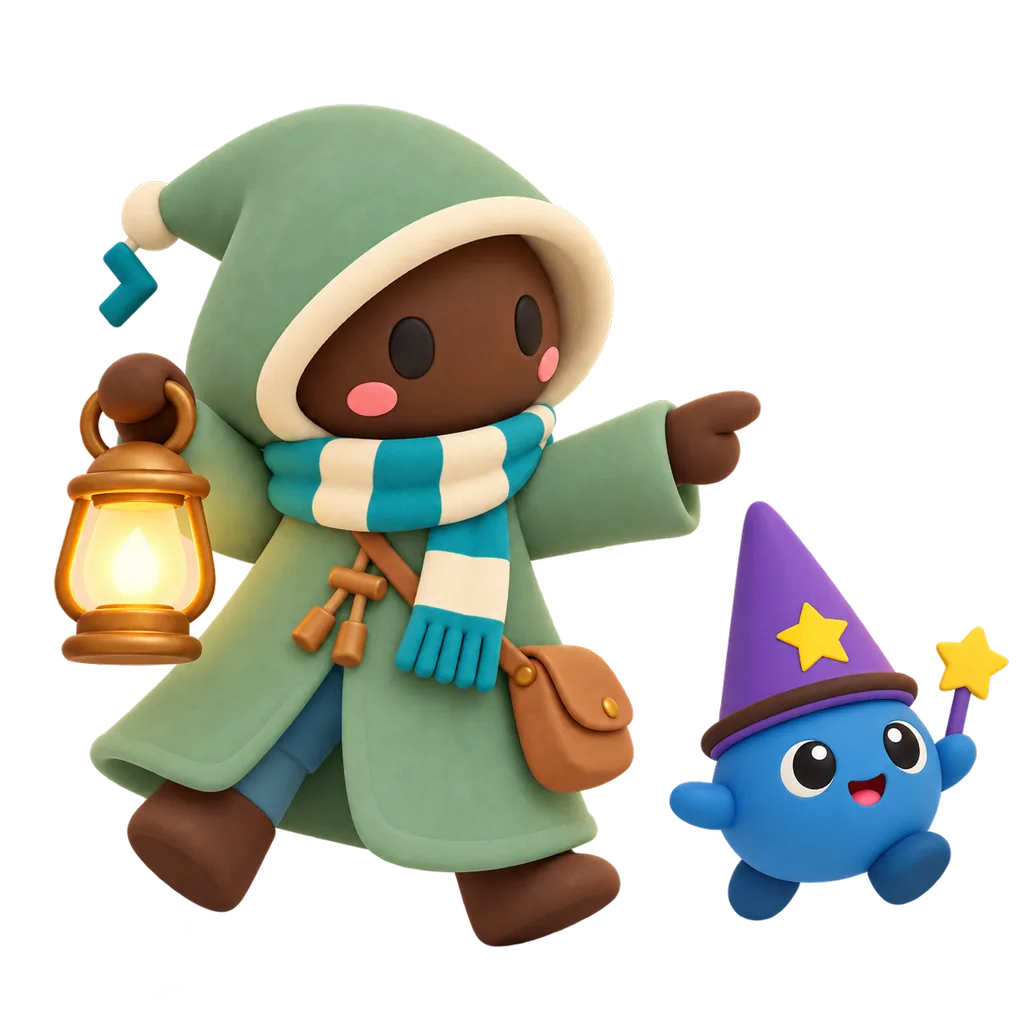
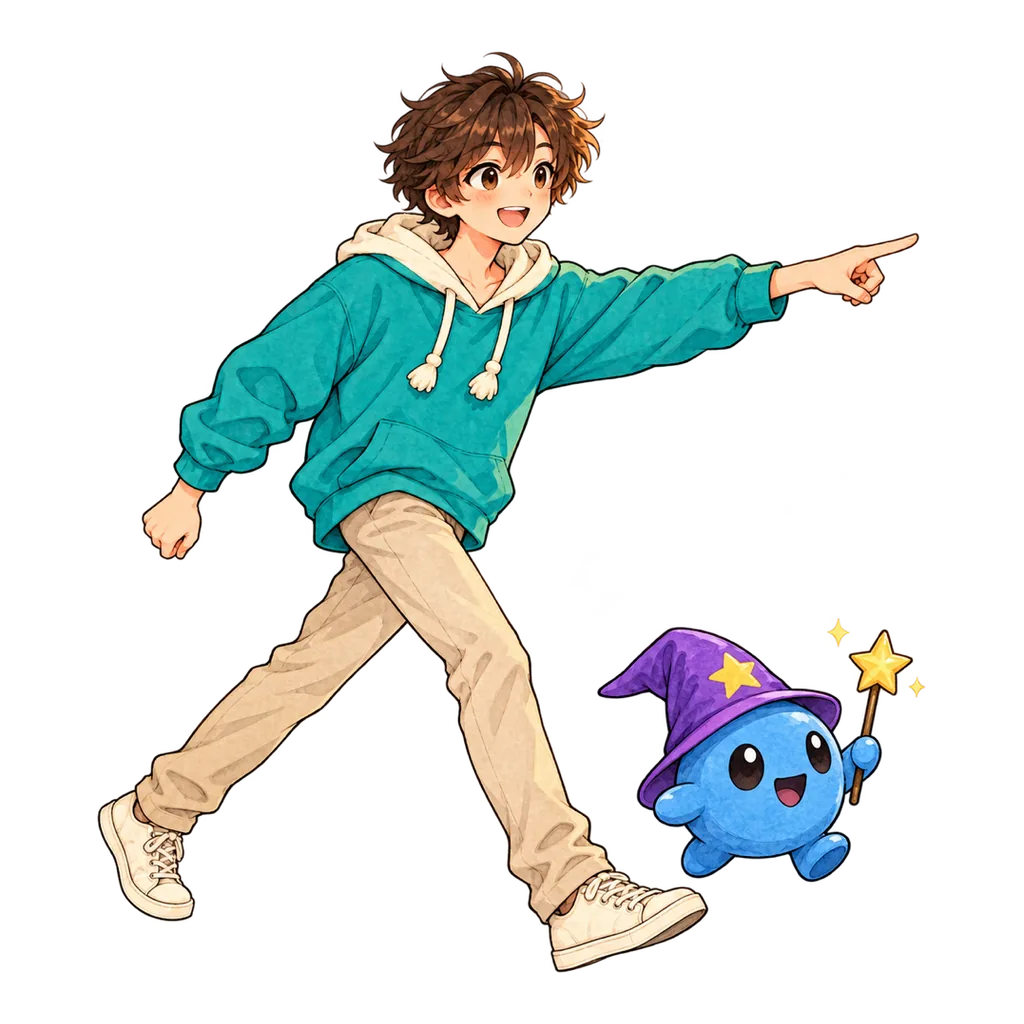
🎨 style(web): switch brand illustrations to ink & watercolor

diff --git a/apps/web/src/components/layout/site-footer.tsx b/apps/web/src/components/layout/site-footer.tsx
@@ -54,9 +54,9 @@ export function SiteFooter() {
           <div className="min-w-0">
             <SiteBrand variant="footer" brand={brand} />
             <p className="mt-3 max-w-[300px] text-sm text-muted-foreground">
-              <Trans id="siteFooter.brand.lantern">
-                Field-tested coding skills I use every day. Carried around like
-                a lantern.
+              <Trans id="siteFooter.brand.blurb">
+                Handy coding practices grown from real work, kept right within
+                reach.
               </Trans>
             </p>
           </div>

diff --git a/apps/web/src/app/[lang]/page.tsx b/apps/web/src/app/[lang]/page.tsx
@@ -149,7 +149,7 @@ export default async function HomePage({ params }: HomePageProps) {
                 alt={i18n._({
                   id: "home.hero.art.alt",
                   message:
-                    "Nika in a green hooded coat holding a lantern, walking with Kiki in a wizard hat",
+                    "Nika in a teal hoodie waving while walking, alongside blue little Kiki in a purple wizard hat jumping with a star wand",
                 })}
                 width={1536}
                 height={1024}

diff --git a/apps/web/src/styles/custom.css b/apps/web/src/styles/custom.css
@@ -419,7 +419,7 @@
     background: var(--plate);
   }
 
-  /* Inset so hat tips and lanterns near the square's corners stay inside the circle. */
+  /* Inset so wizard-hat tips, wands and props near the square's corners stay inside the circle. */
   .art-avatar > img {
     width: 100%;
     height: 100%;

diff --git a/apps/web/src/styles/brand-tokens.css b/apps/web/src/styles/brand-tokens.css
@@ -1,5 +1,5 @@
 /*
- * GENERATED by scripts/sync-brand-tokens.mjs from adonis-brand@1e9972cb84cd.
+ * GENERATED by scripts/sync-brand-tokens.mjs from adonis-brand@b61abfa3ef97.
  * Do not edit by hand: change adonis-brand, then run `pnpm brand:sync`.
  */
 :root {

diff --git a/apps/web/src/styles/theme-roles.css b/apps/web/src/styles/theme-roles.css
@@ -1,5 +1,5 @@
 /*
- * GENERATED by scripts/sync-brand-tokens.mjs from adonis-brand@1e9972cb84cd.
+ * GENERATED by scripts/sync-brand-tokens.mjs from adonis-brand@b61abfa3ef97.
  * Do not edit by hand: change adonis-brand, then run `pnpm brand:sync`.
  */
 

diff --git a/DESIGN.md b/DESIGN.md
@@ -1,9 +1,9 @@
 ---
-# GENERATED by scripts/sync-brand-tokens.mjs from adonis-brand@1e9972cb84cd (projects/skills/DESIGN.md).
+# GENERATED by scripts/sync-brand-tokens.mjs from adonis-brand@b61abfa3ef97 (projects/skills/DESIGN.md).
 # Do not edit by hand: change adonis-brand, then run `pnpm brand:sync`.
 version: alpha
 name: Nika Skills
-description: Catalog site for Nika's agent skills. Near-white cool gray pages, one saturated leaf-green accent used on small areas, and the clay characters Nika and Kiki carrying the brand through every section.
+description: Catalog site for Nika's agent skills. Near-white cool gray pages, one saturated leaf-green accent used on small areas, and the ink & watercolor characters Nika and Kiki carrying the brand through every section.
 # colors: injected by adonis-skills `pnpm brand:sync` from design-system/tokens.json (theme picked by
 #   projects/skills/theme.json designSystem.accent). Light roles keep their name; dark roles get a
 #   `-dark` suffix. Never write hex here.
@@ -288,7 +288,7 @@ components:
 
 ## Overview
 
-一本摊开的、干净的技能手册：页面几乎无彩，是近白的冷灰；唯一的强调色是叶绿，只出现在小面积；暖色和高饱和交给黏土角色尼卡（Nika）和琪琪（Kiki），他们从首屏一直陪到页脚。
+一本摊开的、干净的技能手册：页面几乎无彩，是近白的冷灰；唯一的强调色是叶绿，只出现在小面积；暖色和高饱和交给钢笔淡彩角色尼卡（Nika）和琪琪（Kiki），他们从首屏一直陪到页脚。
 
 - 界面安静，角色热闹。插画是页面里唯一大面积的暖色区域。
 - 叶绿只做“点亮”：主按钮、标签、选中态、链接、悬停边框、焦点环。
@@ -381,10 +381,11 @@ components:
 
 ## Illustration
 
-- 黏土质感，光源是尼卡手里的灯（暖黄，从左上照）。
+- 钢笔淡彩（2026-10-31 起）：深棕墨线、水彩晕染、一点彩铅，青绿 `#2BA5A0` 是画面里最饱和的颜色。尼卡约 1:6 头身，穿青绿连帽衫、兜帽放下；不画灯笼、帽子、皮包和帽尖挂件，没有发光光源。琪琪保持蓝色身体、紫色巫师帽和星星魔杖，画法换成水彩。
+- 一张图最多一件情境道具，要说明这张图在讲什么；琪琪的魔杖是身份道具，不算。点缀（小星星、叶芽）合计不超过 4 个。
 - 所有插画用透明背景，同一张图在浅深两种模式都能用；衬底由界面提供，不画进图里。
 - 用到插画的位置：hero、3 张精选卡、场景分组头、空状态、页脚。普通卡不配插画。
-- 出图必须附参考图（`projects/skills/hero/` 与主角设定图），角色颜色、比例不能漂移；图里不出现文字。
+- 出图必须附参考图（`personal/character/anime/hero-ink.png`、`sheet-ink.png`，有琪琪时加 `personal/character/crew/crew-sheet-ink.png`），提示词照 `personal/BRAND.md` 第 6 节母版（PRESERVE / CHANGE ONLY / AVOID）；角色颜色、比例不能漂移；图里不出现文字。2026-10-31 前的黏土提灯版只作历史参考。
 
 ## Dark Mode
 

diff --git a/apps/web/src/styles/brand/DESIGN.source.md b/apps/web/src/styles/brand/DESIGN.source.md
@@ -1,7 +1,7 @@
 ---
 version: alpha
 name: Nika Skills
-description: Catalog site for Nika's agent skills. Near-white cool gray pages, one saturated leaf-green accent used on small areas, and the clay characters Nika and Kiki carrying the brand through every section.
+description: Catalog site for Nika's agent skills. Near-white cool gray pages, one saturated leaf-green accent used on small areas, and the ink & watercolor characters Nika and Kiki carrying the brand through every section.
 # colors: injected by adonis-skills `pnpm brand:sync` from design-system/tokens.json (theme picked by
 #   projects/skills/theme.json designSystem.accent). Light roles keep their name; dark roles get a
 #   `-dark` suffix. Never write hex here.
@@ -153,7 +153,7 @@ components:
 
 ## Overview
 
-一本摊开的、干净的技能手册：页面几乎无彩，是近白的冷灰；唯一的强调色是叶绿，只出现在小面积；暖色和高饱和交给黏土角色尼卡（Nika）和琪琪（Kiki），他们从首屏一直陪到页脚。
+一本摊开的、干净的技能手册：页面几乎无彩，是近白的冷灰；唯一的强调色是叶绿，只出现在小面积；暖色和高饱和交给钢笔淡彩角色尼卡（Nika）和琪琪（Kiki），他们从首屏一直陪到页脚。
 
 - 界面安静，角色热闹。插画是页面里唯一大面积的暖色区域。
 - 叶绿只做“点亮”：主按钮、标签、选中态、链接、悬停边框、焦点环。
@@ -246,10 +246,11 @@ components:
 
 ## Illustration
 
-- 黏土质感，光源是尼卡手里的灯（暖黄，从左上照）。
+- 钢笔淡彩（2026-10-31 起）：深棕墨线、水彩晕染、一点彩铅，青绿 `#2BA5A0` 是画面里最饱和的颜色。尼卡约 1:6 头身，穿青绿连帽衫、兜帽放下；不画灯笼、帽子、皮包和帽尖挂件，没有发光光源。琪琪保持蓝色身体、紫色巫师帽和星星魔杖，画法换成水彩。
+- 一张图最多一件情境道具，要说明这张图在讲什么；琪琪的魔杖是身份道具，不算。点缀（小星星、叶芽）合计不超过 4 个。
 - 所有插画用透明背景，同一张图在浅深两种模式都能用；衬底由界面提供，不画进图里。
 - 用到插画的位置：hero、3 张精选卡、场景分组头、空状态、页脚。普通卡不配插画。
-- 出图必须附参考图（`projects/skills/hero/` 与主角设定图），角色颜色、比例不能漂移；图里不出现文字。
+- 出图必须附参考图（`personal/character/anime/hero-ink.png`、`sheet-ink.png`，有琪琪时加 `personal/character/crew/crew-sheet-ink.png`），提示词照 `personal/BRAND.md` 第 6 节母版（PRESERVE / CHANGE ONLY / AVOID）；角色颜色、比例不能漂移；图里不出现文字。2026-10-31 前的黏土提灯版只作历史参考。
 
 ## Dark Mode
 

diff --git a/CLAUDE.md b/CLAUDE.md
@@ -40,6 +40,7 @@ pnpm skills:test:local [-- --all | --skill <name>]
 pnpm dev
 pnpm lint
 pnpm typecheck
+pnpm test:scripts
 pnpm build
 ```
 
@@ -78,7 +79,7 @@ When you add a public skill or change what one does, write its `apps/web/content
 - `group`: the one existing Scenario Group a Visitor would look in. Add a new group only when none fits; a new group needs `title`, `summary` (en/zh) and an illustration.
 - `summary` and `use_cases` in English and Chinese, written for a Visitor, not for the agent; `tags` from `SKILL_TAGS`.
 - `featured` is curated by the maintainer: change it only when asked. A newly featured skill needs its own illustration.
-- Illustrations follow `DESIGN.md` → Illustration: transparent clay art generated with Codex image generation from the hero reference, no text. Add the PNG and WebP to `adonis-brand/projects/skills/illustrations/`, register the copy in `adonis-brand/data/consumers.json`, then copy the WebP to `apps/web/public/brand/illustrations/`.
+- Illustrations follow `DESIGN.md` → Illustration: transparent ink & watercolor art generated with Codex image generation from the character references named there (Nika with the teal hoodie, hood down; no lantern, hat or satchel; at most one situational prop), no text. Add the PNG and WebP to `adonis-brand/projects/skills/illustrations/`, register the copy in `adonis-brand/data/consumers.json`, then copy the WebP to `apps/web/public/brand/illustrations/`.
 - Then run `pnpm skills:validate` and `pnpm skills:index` and stage the regenerated `apps/web/src/generated/`. The pre-commit hook runs `scripts/precommit-skills.mjs`, which blocks a commit touching `skills/` or the catalog when validation fails or the generated index is stale.
 
 ```yaml
